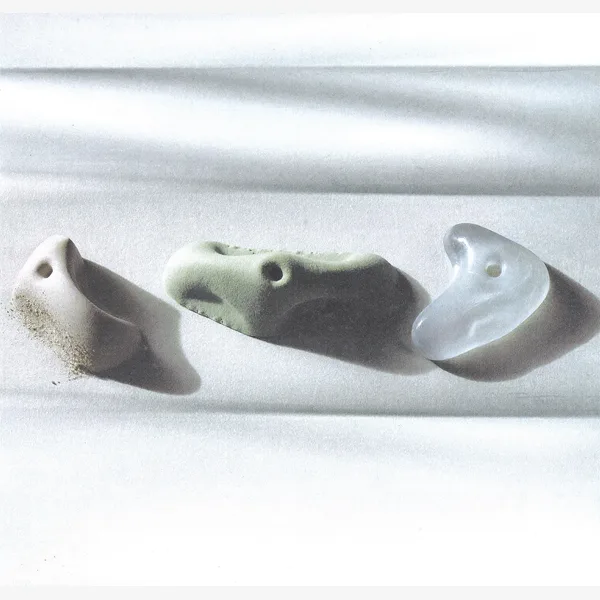
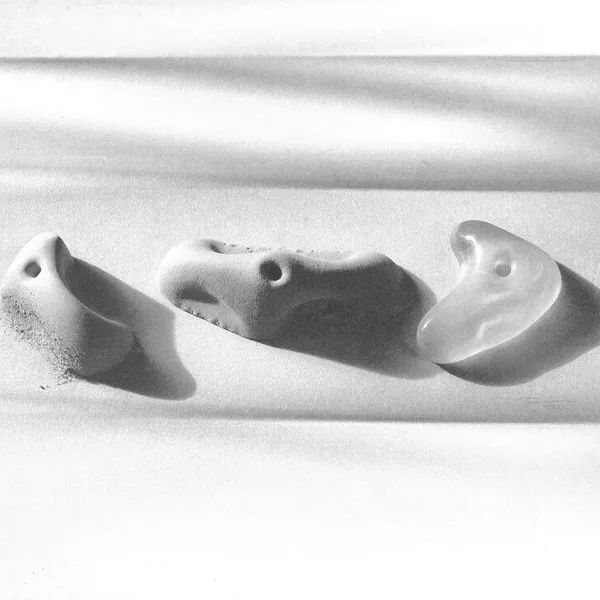
마퀴 이미지를 캡슐 크롭·흑백으로 바꾸고 크기 확대, 로고는 배경 없이

diff --git a/src/components/flowing-menu.tsx b/src/components/flowing-menu.tsx
@@ -20,6 +20,8 @@ export interface FlowingMenuItem {
   text: string;
   /** 마퀴에 흐르는 이미지. 없으면 틴트 블록 */
   image?: string;
+  /** 기본은 캡슐로 위아래를 잘라낸다. 로고처럼 잘리면 안 되는 건 contain */
+  fit?: "cover" | "contain";
 }
 
 interface FlowingMenuProps {
@@ -78,7 +80,7 @@ const findClosestEdge = (mouseX: number, mouseY: number, width: number, height: 
     ? "top"
     : "bottom";
 
-function MenuItem({ link, text, image, speed }: FlowingMenuItem & { speed: number }) {
+function MenuItem({ link, text, image, fit = "cover", speed }: FlowingMenuItem & { speed: number }) {
   const itemRef = useRef<HTMLDivElement | null>(null);
   const marqueeRef = useRef<HTMLDivElement | null>(null);
   const marqueeInnerRef = useRef<HTMLDivElement | null>(null);
@@ -173,7 +175,9 @@ function MenuItem({ link, text, image, speed }: FlowingMenuItem & { speed: numbe
               <div className="marquee__part" key={idx}>
                 <span>{text}</span>
                 <div
-                  className={`marquee__img${image ? "" : " marquee__img--empty"}`}
+                  className={`marquee__img${fit === "contain" ? " marquee__img--contain" : ""}${
+                    image ? "" : " marquee__img--empty"
+                  }`}
                   style={
                     image ? ({ backgroundImage: `url(${image})` } as CSSProperties) : undefined
                   }

diff --git a/src/components/flowing-menu.css b/src/components/flowing-menu.css
@@ -100,15 +100,23 @@
   padding: 0 1vw;
 }
 
-/* 오브제 사진은 정사각에 가깝다. cover로 가운데만 잘라내면 형태가 안 보이므로
-   정사각 칸에 contain으로 통째로 담는다. */
+/* 캡슐로 위아래를 잘라낸다 — 원본 레퍼런스와 같은 처리.
+   사진은 흑백으로 미리 구워져 있다(scripts/build-menu-images.mjs). */
 .marquee__img {
-  height: 7vh;
-  aspect-ratio: 1;
+  height: 10vh;
+  aspect-ratio: 3 / 1;
   margin: 2em 2vw;
+  border-radius: 999px;
+  background-size: cover;
+  background-position: 50% 50%;
+}
+
+/* 로고는 배경 없이 통째로 — 캡슐로 자르면 심볼이 심볼로 안 읽힌다 */
+.marquee__img--contain {
+  aspect-ratio: 1;
+  border-radius: 0;
   background-size: contain;
   background-repeat: no-repeat;
-  background-position: 50% 50%;
 }
 
 /* 사진이 아직 없는 항목은 틴트 블록이 자리를 지킨다 */

diff --git a/src/data/site.ts b/src/data/site.ts
@@ -11,6 +11,8 @@ export interface Destination {
   href: string;
   /** 메인 메뉴 마퀴에 흐르는 이미지. 없으면 틴트 블록이 자리를 지킨다 */
   image?: string;
+  /** 기본은 캡슐로 위아래를 잘라낸다. 로고는 잘리면 안 되므로 contain */
+  fit?: "cover" | "contain";
 }
 
 /**
@@ -25,7 +27,7 @@ export interface Destination {
  * 이미지는 `npm run menu-images`로 만든다.
  */
 export const destinations: Destination[] = [
-  { label: "GRIT", href: "/grit", image: "/img/menu/grit.webp" },
+  { label: "GRIT", href: "/grit", image: "/img/menu/grit.webp", fit: "contain" },
   { label: "ARCHIVE", href: "/archive", image: "/img/menu/archive.webp" },
   { label: "PROCESS", href: "/process", image: "/img/menu/process.webp" },
   { label: "ABOUT", href: "/about", image: "/img/menu/about.webp" },

diff --git a/src/app/home/page.tsx b/src/app/home/page.tsx
@@ -12,7 +12,7 @@ export default function MainPage() {
   return (
     <div data-screen="main" className="h-dvh">
       <FlowingMenu
-        items={destinations.map((d) => ({ link: d.href, text: d.label, image: d.image }))}
+        items={destinations.map((d) => ({ link: d.href, text: d.label, image: d.image, fit: d.fit }))}
         textColor="#010101"
         bgColor="#f5f5f5"
         marqueeBgColor="#bbccc7"
